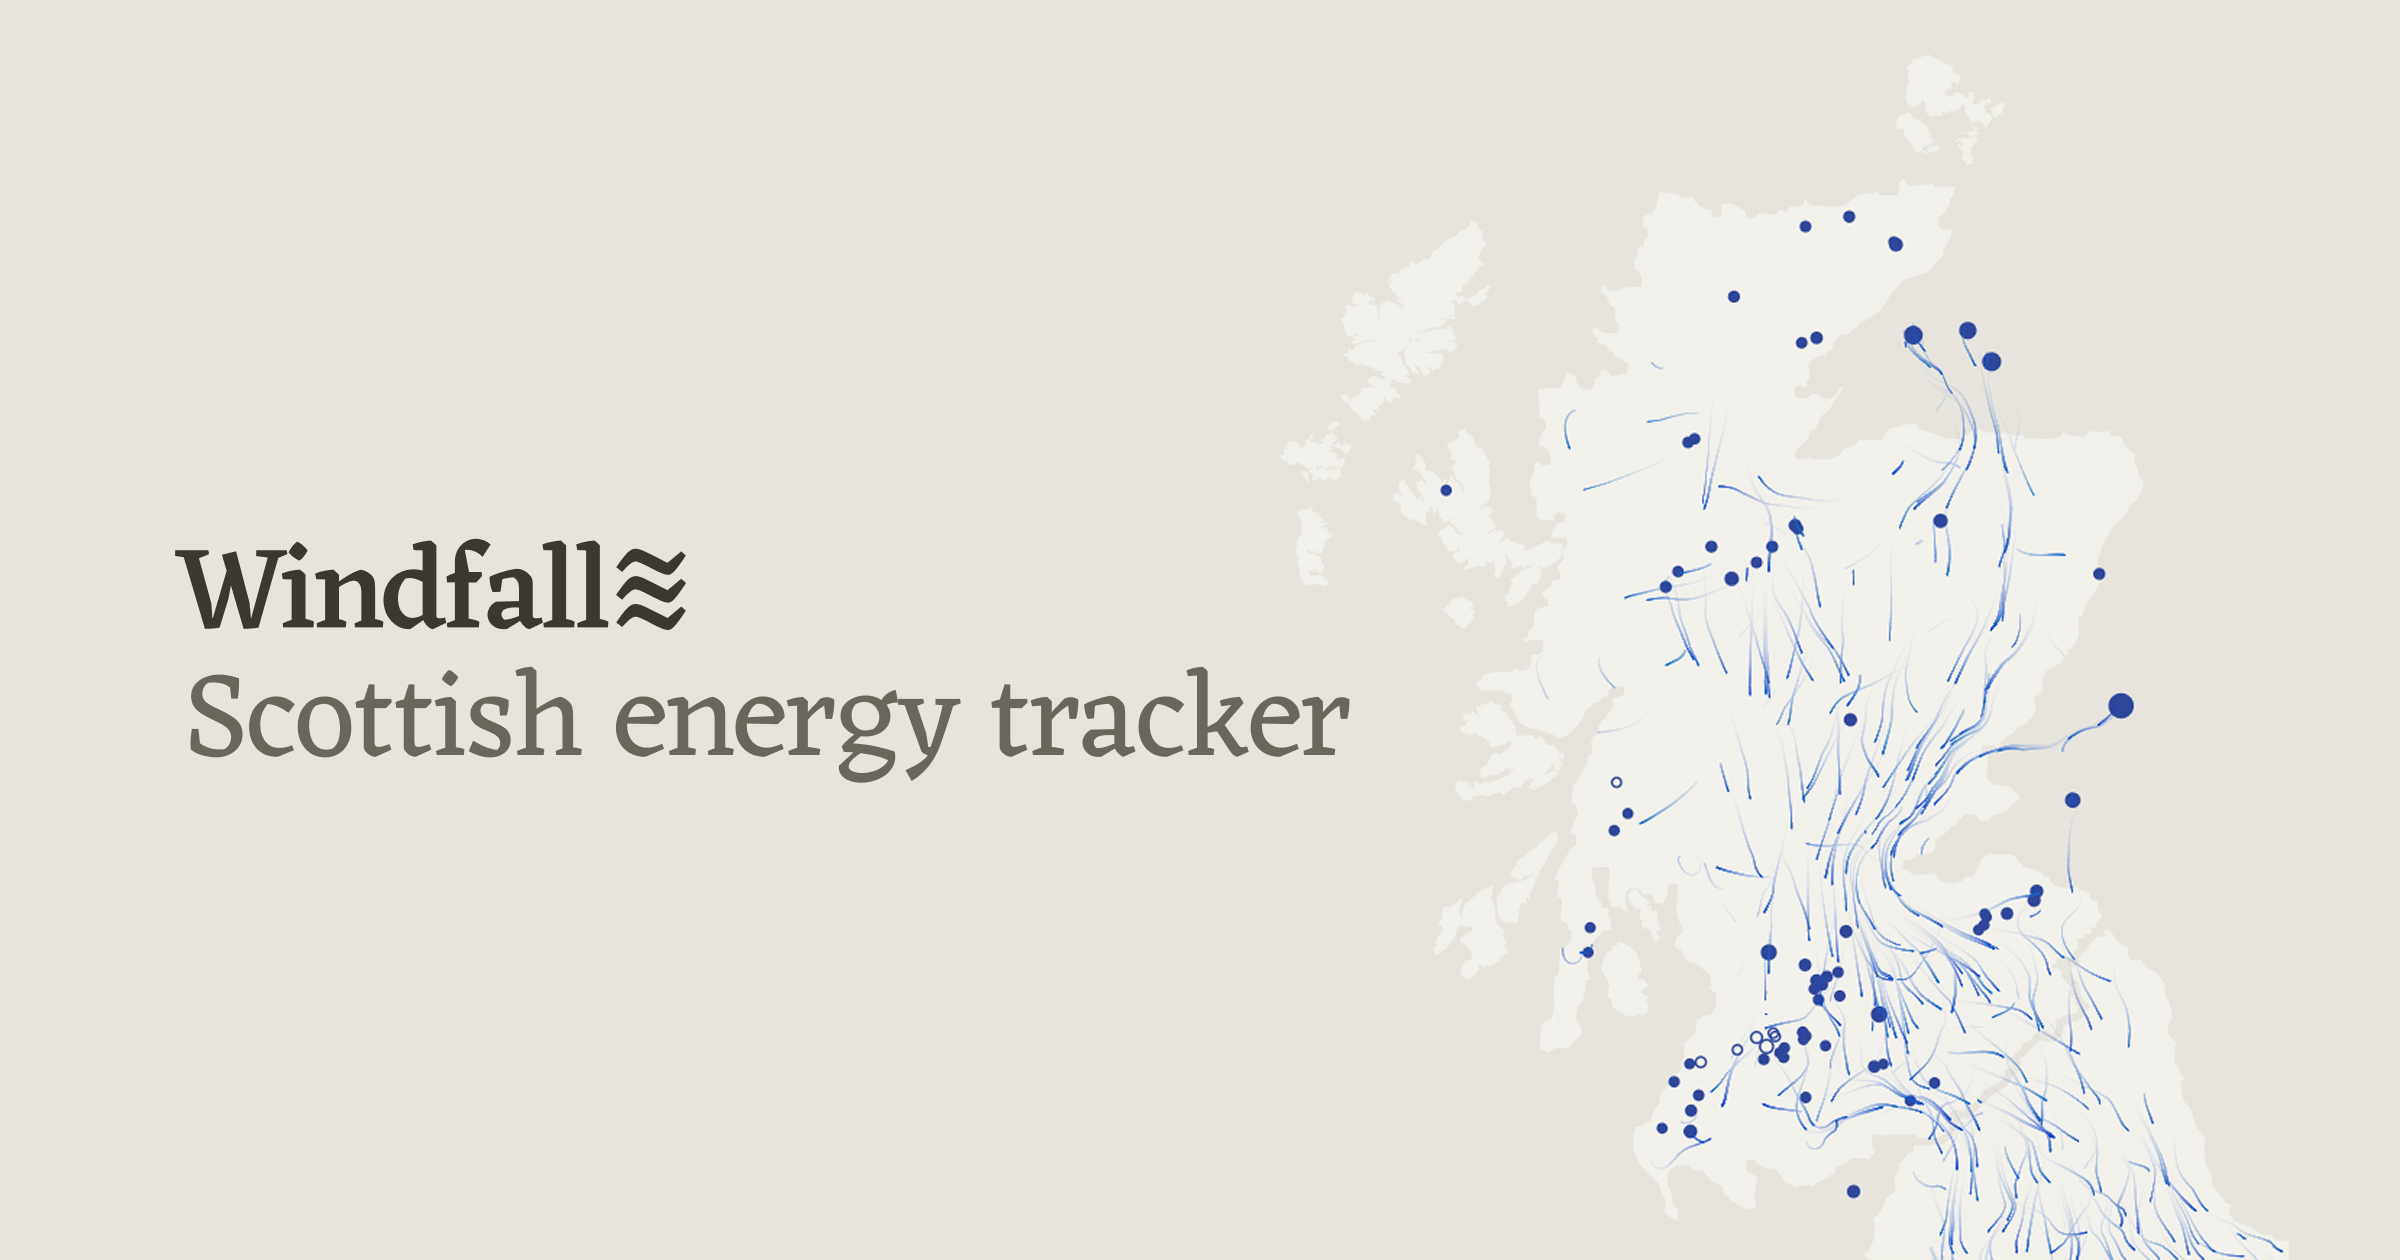
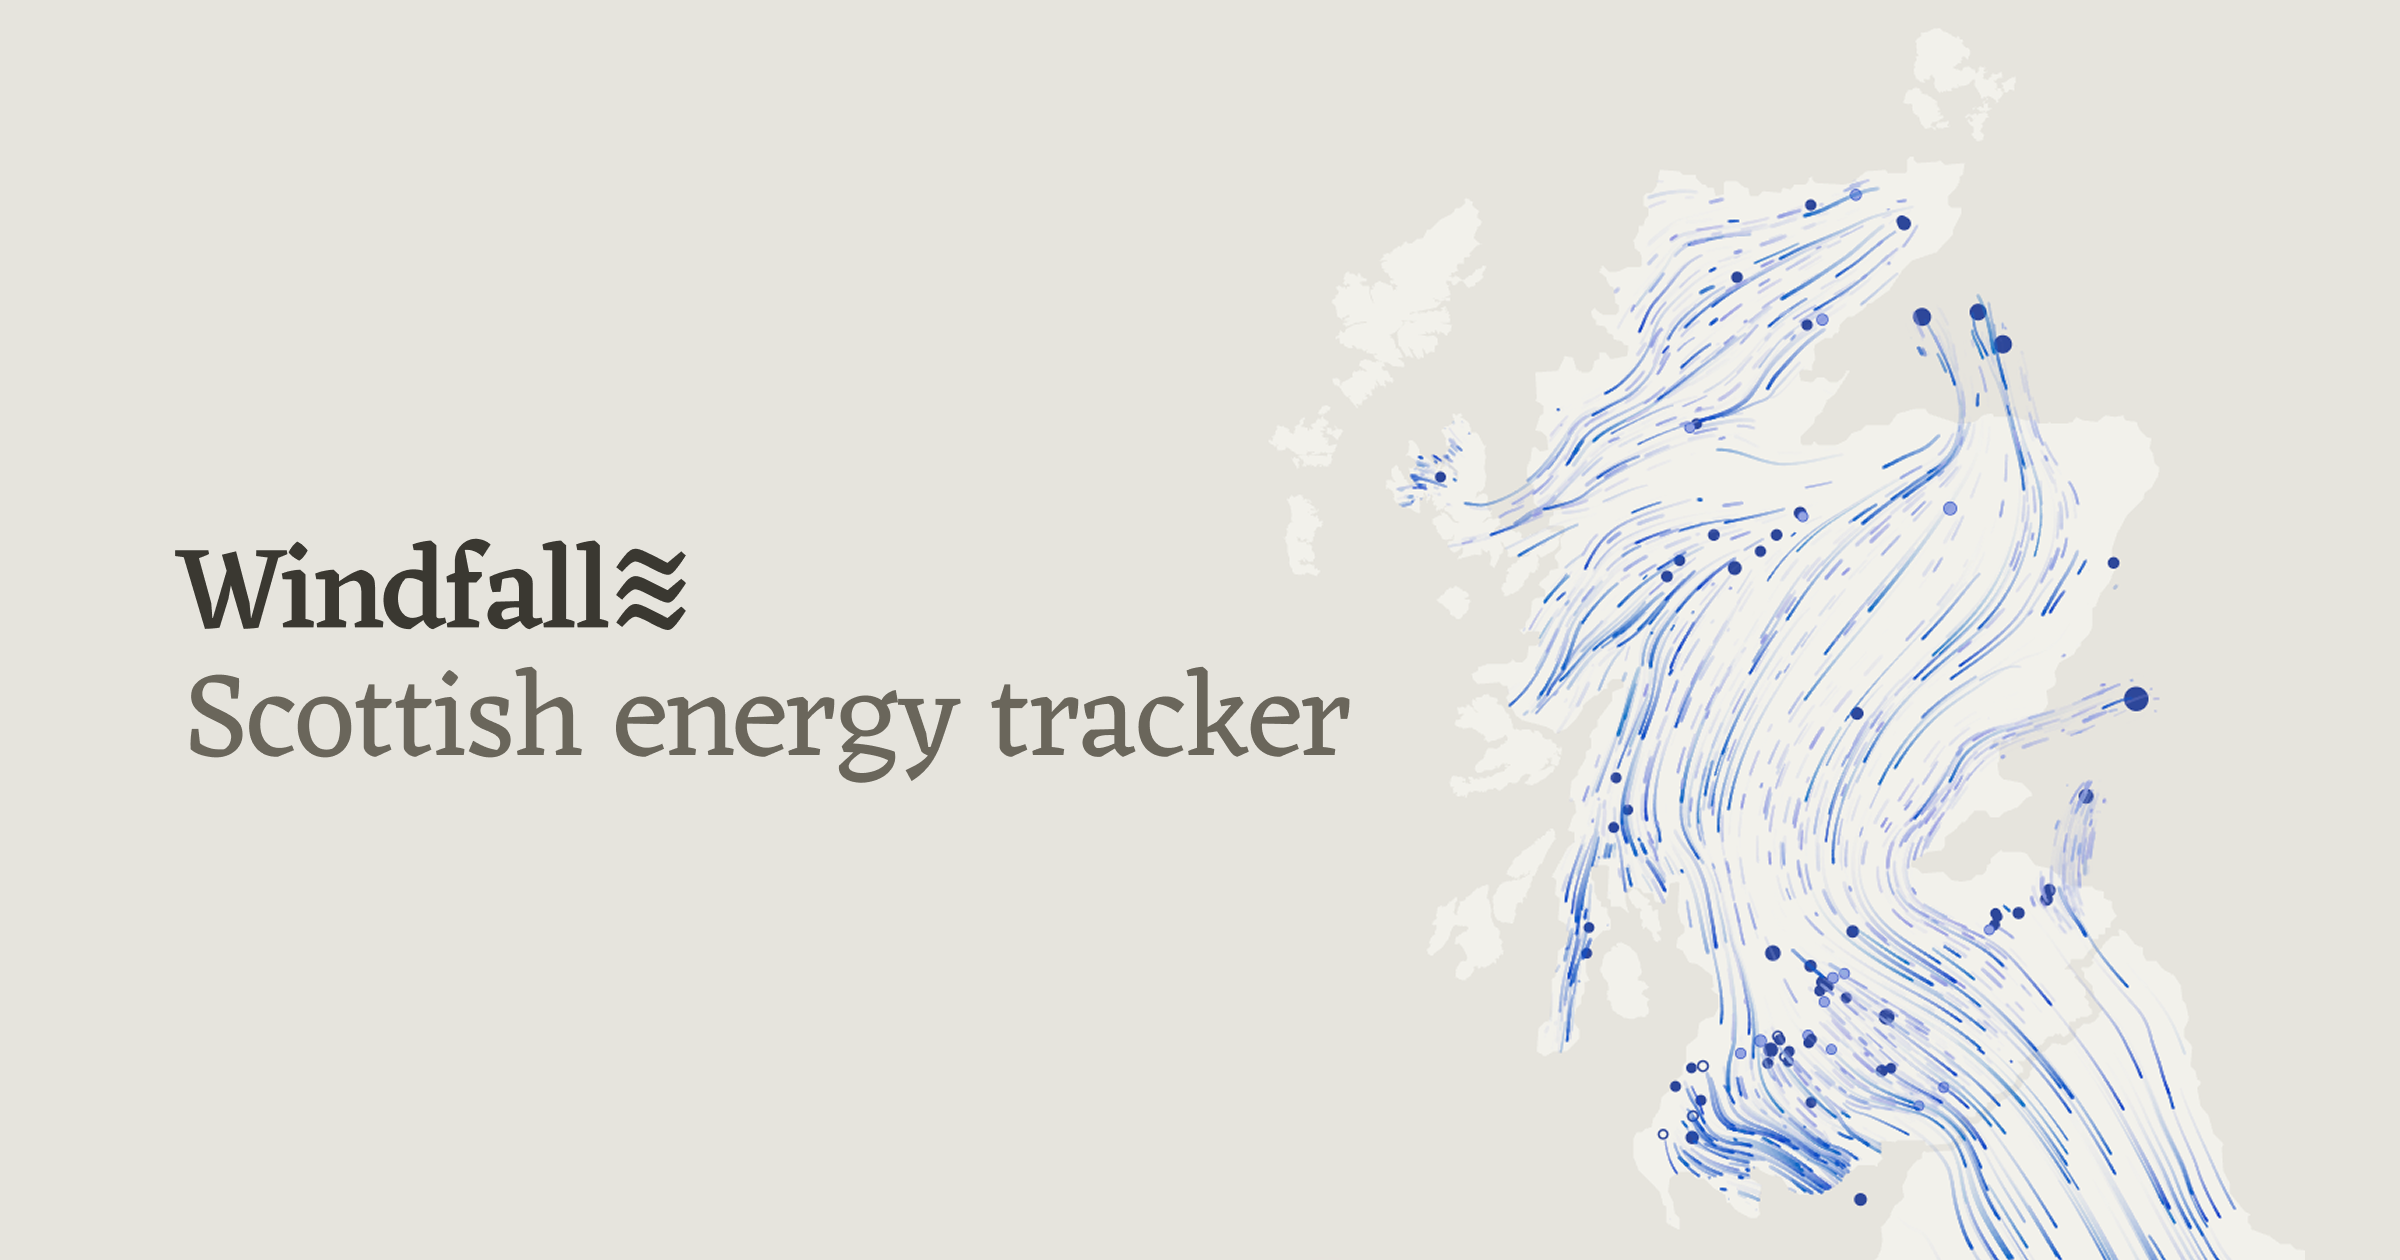
map: the method at the MW figures' size on a phone, and a new social image
On a phone the method's paragraphs are 12px (--type-method, following --type-row, the farm rows' MW figures), so the text under the bar is one size; 16px from the tablet tier up. The social image shows the shared-field wind. See DECISIONS 053.

Changed region(s): [[0.5625, 0.1548, 0.9375, 1.0]]

diff --git a/src/styles/grid.css b/src/styles/grid.css
@@ -115,6 +115,9 @@
   --lh-display: 1.2;
   --type-wordmark: 0.75rem; /* 12px */
   --type-legend: 0.6875rem; /* 11px — the mobile legend */
+  /* The method's paragraphs: on a phone, the farm rows' MW figures' size, so
+     the text under the bar is one size (Owen); 16px from the tablet up. */
+  --type-method: var(--type-row);
 
   /* --- The mix panel, tier by tier ---------------------------------------------
      What differs between tiers is arrangement, not content, so it is all
@@ -170,6 +173,7 @@
        (The 44rem text cap tried here read as a premature max width, so the
        text block is full width again.) */
     --method-cols: 2;
+    --type-method: 1rem; /* 16px (Owen) */
     /* 64px from 744px up — the Tablet frame's margin (spec §5.1 says 24px;
        DECISIONS 028) — easing down to 36px at 600px, linearly, so the two farm
        columns stay ≈250px wide at the bottom of the range (4d). */

diff --git a/src/map/map.css b/src/map/map.css
@@ -734,7 +734,7 @@ body {
 
 .map-settlement__p {
   margin: 0;
-  font-size: 1rem; /* 16px (Owen) */
+  font-size: var(--type-method); /* 12px on a phone, 16px from the tablet up (grid.css) */
   font-weight: var(--wt-light);
   line-height: 1.25;
   color: var(--text-muted); /* paragraph copy (Owen) */

diff --git a/DECISIONS.md b/DECISIONS.md
@@ -1644,3 +1644,7 @@ Both reach bills through BSUoS, which since 1 April 2023 (CMP308) is recovered s
 **Why:** Owen: the method had grown long and repeated the headline ("passed on in future electricity bills", which the headline's "will add" now carries), and its order followed how the page was built rather than the headline's two claims: the share's two supporting paragraphs came after the cost's. It had also become wrong: "every figure on this page is for the half hour shown above" stopped being true when the cost became the day so far (052). Folding the settlement period into the share paragraph takes a whole row of information off the page before anything is opened ("reduce the information load before expanding", Owen). ~175 → 155 words.
 
 **How:** the method is a button-driven disclosure now (`aria-expanded` / `aria-controls`), like the farm list's, not a `<details>`: two `<details>` can't share a row with their panels opening full-width beneath. It reuses the list toggle's class, so its look and chevron. The masthead view still builds and updates its clock; it's detached and seated nowhere on `/map`. The panel sits 12px under the toggles' line, as the list's first row does. The `<details>`, summary and clock styles and `--settlement-after-foot` are removed.
+
+**On a phone the method is 12px** (`--type-method`, grid.css: `--type-row`, the farm rows' MW figures' size, below the tablet tier; 16px from it up), so the text under the bar is one size (Owen). Light weight in `--text-muted` on the page ground is ~4.5:1, right at AA for body text; if 12px light reads too faint on a phone, regular weight there is the lever, not the colour.
+
+**The social image** (`public/og-windfall.png`, 2400×1260) is Owen's new one with the shared-field wind (049). Same file name, so platforms that cache share images by URL may show the old one until they re-fetch it.
